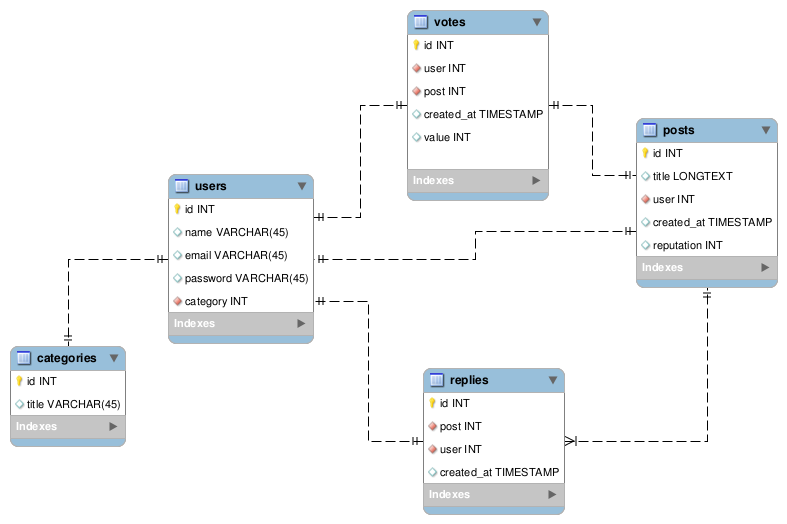
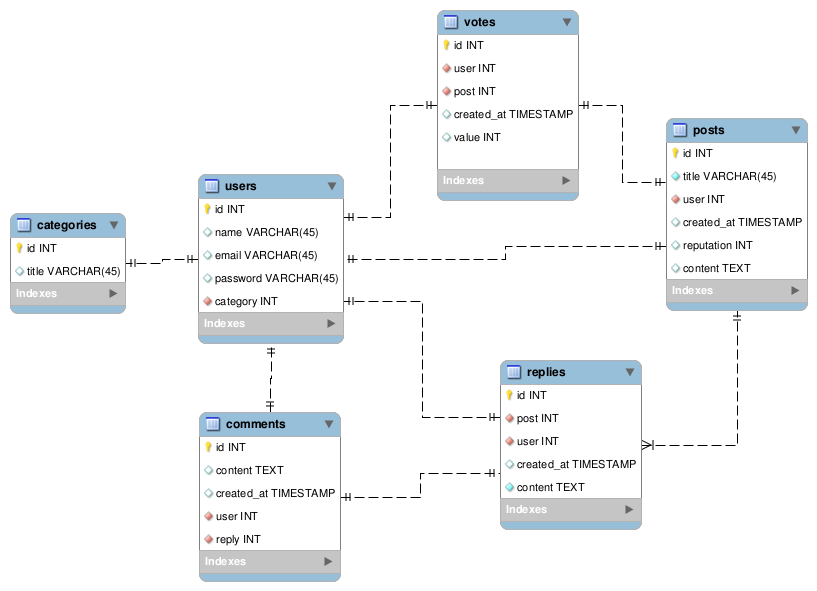
Fixing model and creating migrations

diff --git a/app/database/migrations/2015_03_14_213131_create_users_table.php b/app/database/migrations/2015_03_14_213131_create_users_table.php
@@ -1,0 +1,37 @@
+<?php
+
+use Illuminate\Database\Migrations\Migration;
+use Illuminate\Database\Schema\Blueprint;
+
+class CreateUsersTable extends Migration {
+
+	/**
+	 * Run the migrations.
+	 *
+	 * @return void
+	 */
+	public function up()
+	{
+		Schema::create('users', function(Blueprint $table)
+		{
+			$table->increments('id');
+			$table->string('name');
+			$table->string('email');
+			$table->string('password');
+			$table->int('category');
+			$table->timestamps();
+		});
+	}
+
+
+	/**
+	 * Reverse the migrations.
+	 *
+	 * @return void
+	 */
+	public function down()
+	{
+		Schema::drop('users');
+	}
+
+}

diff --git a/app/database/migrations/2015_03_14_213519_create_posts_table.php b/app/database/migrations/2015_03_14_213519_create_posts_table.php
@@ -1,0 +1,36 @@
+<?php
+
+use Illuminate\Database\Migrations\Migration;
+use Illuminate\Database\Schema\Blueprint;
+
+class CreatePostsTable extends Migration {
+
+	/**
+	 * Run the migrations.
+	 *
+	 * @return void
+	 */
+	public function up()
+	{
+		Schema::create('posts', function(Blueprint $table)
+		{
+			$table->increments('id');
+			$table->string('title');
+			$table->integer('user');
+			$table->integer,content('reputation')->text();
+			$table->timestamps();
+		});
+	}
+
+
+	/**
+	 * Reverse the migrations.
+	 *
+	 * @return void
+	 */
+	public function down()
+	{
+		Schema::drop('posts');
+	}
+
+}

diff --git a/app/database/migrations/2015_03_14_213621_create_replies_table.php b/app/database/migrations/2015_03_14_213621_create_replies_table.php
@@ -1,0 +1,36 @@
+<?php
+
+use Illuminate\Database\Migrations\Migration;
+use Illuminate\Database\Schema\Blueprint;
+
+class CreateRepliesTable extends Migration {
+
+	/**
+	 * Run the migrations.
+	 *
+	 * @return void
+	 */
+	public function up()
+	{
+		Schema::create('replies', function(Blueprint $table)
+		{
+			$table->increments('id');
+			$table->integer('post');
+			$table->integer('user');
+			$table->text('content');
+			$table->timestamps();
+		});
+	}
+
+
+	/**
+	 * Reverse the migrations.
+	 *
+	 * @return void
+	 */
+	public function down()
+	{
+		Schema::drop('replies');
+	}
+
+}

diff --git a/app/database/migrations/2015_03_14_213353_create_votes_table.php b/app/database/migrations/2015_03_14_213353_create_votes_table.php
@@ -1,0 +1,36 @@
+<?php
+
+use Illuminate\Database\Migrations\Migration;
+use Illuminate\Database\Schema\Blueprint;
+
+class CreateVotesTable extends Migration {
+
+	/**
+	 * Run the migrations.
+	 *
+	 * @return void
+	 */
+	public function up()
+	{
+		Schema::create('votes', function(Blueprint $table)
+		{
+			$table->increments('id');
+			$table->integer('user');
+			$table->integer('post');
+			$table->integer('value');
+			$table->timestamps();
+		});
+	}
+
+
+	/**
+	 * Reverse the migrations.
+	 *
+	 * @return void
+	 */
+	public function down()
+	{
+		Schema::drop('votes');
+	}
+
+}

diff --git a/app/database/migrations/2015_03_14_213235_create_categories_table.php b/app/database/migrations/2015_03_14_213235_create_categories_table.php
@@ -1,0 +1,34 @@
+<?php
+
+use Illuminate\Database\Migrations\Migration;
+use Illuminate\Database\Schema\Blueprint;
+
+class CreateCategoriesTable extends Migration {
+
+	/**
+	 * Run the migrations.
+	 *
+	 * @return void
+	 */
+	public function up()
+	{
+		Schema::create('categories', function(Blueprint $table)
+		{
+			$table->increments('id');
+			$table->string('title');
+			$table->timestamps();
+		});
+	}
+
+
+	/**
+	 * Reverse the migrations.
+	 *
+	 * @return void
+	 */
+	public function down()
+	{
+		Schema::drop('categories');
+	}
+
+}

diff --git a/app/config/app.php b/app/config/app.php
@@ -13,7 +13,7 @@ return array(
 	|
 	*/
 
-	'debug' => false,
+	'debug' => true,
 
 	/*
 	|--------------------------------------------------------------------------
@@ -120,7 +120,8 @@ return array(
 		'Illuminate\Translation\TranslationServiceProvider',
 		'Illuminate\Validation\ValidationServiceProvider',
 		'Illuminate\View\ViewServiceProvider',
-		'Illuminate\Workbench\WorkbenchServiceProvider',
+        'Illuminate\Workbench\WorkbenchServiceProvider',
+        'Way\Generators\GeneratorsServiceProvider'
 
 	),
 
